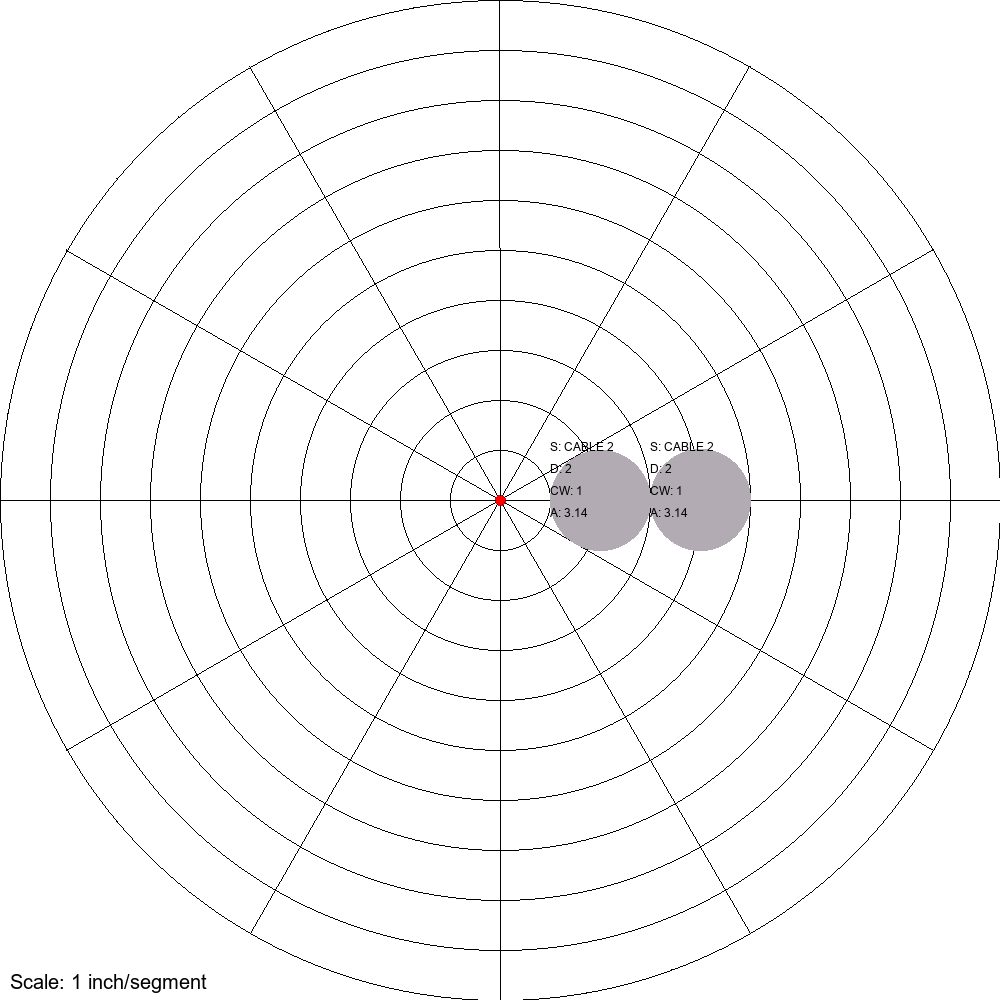
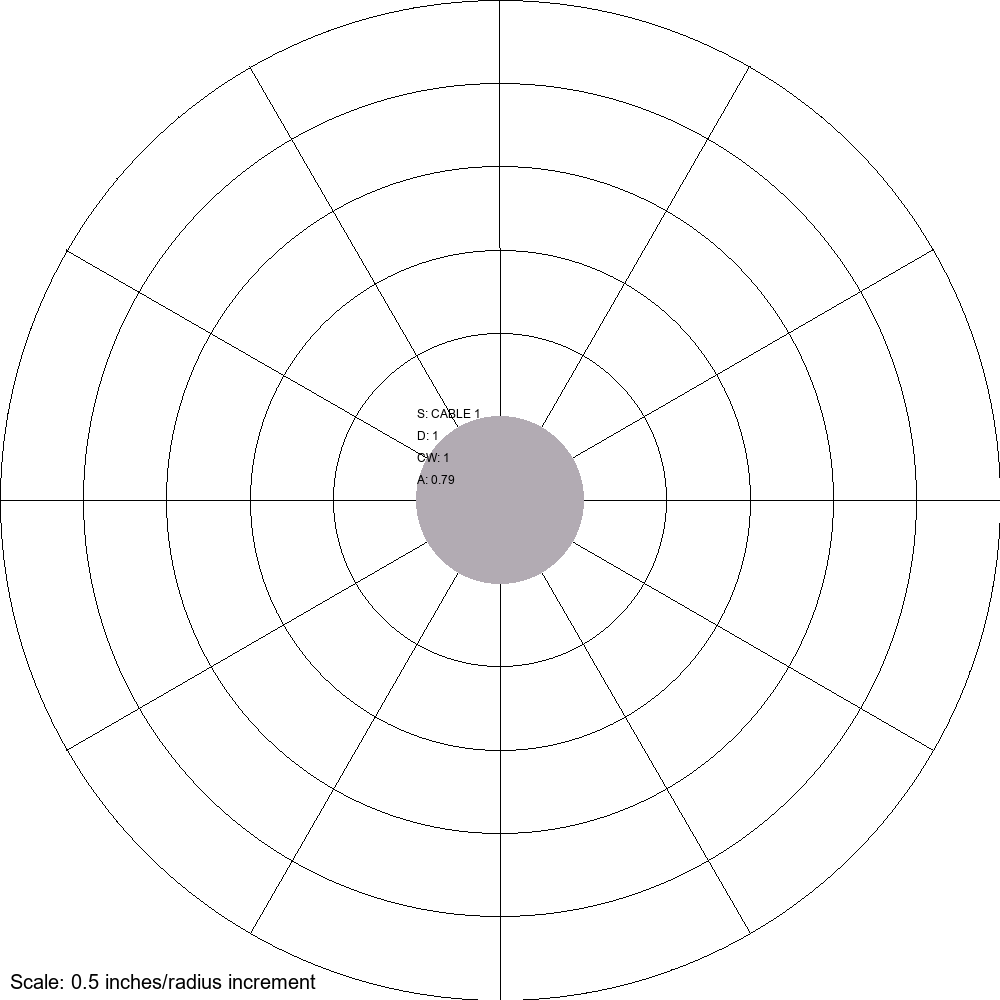
FIXED SCALING
6 INCHES

Changed region(s): [[0.403, 0.403, 0.775, 0.589], [0.062, 0.961, 0.31, 0.992]]

diff --git a/main.py b/main.py
@@ -11,10 +11,11 @@ sort_stationing()      # List each stationing value in the pull sheet
 stationing_sections()  # List cables between each section of stationing
 
 cable_list.append(Cable('1.162', '500+00', '600+00', 'CABLE 2', 'E'))
-cable_list.append(Cable('1.162', '500+00', '600+00', 'CABLE 2', 'E'))
-# print(cable_list[23].cable_size)
-add_to_draw_queue(cable_list[23], 4, 0)
-add_to_draw_queue(cable_list[24], 2, 0)
+cable_list.append(Cable('1.162', '500+00', '600+00', 'CABLE 1', 'E'))
+print(cable_list[23].cable_size)
+# add_to_draw_queue(cable_list[23], 4, 0)
+add_to_draw_queue(cable_list[24], 0, 0)
+generate_cable_image(draw_queue)
 #
 # print("Distance between the two cables is:")
 # print(abs(draw_queue[0] - draw_queue[1]))
@@ -24,37 +25,37 @@ add_to_draw_queue(cable_list[24], 2, 0)
 # print(draw_queue[0][3].diameter + draw_queue[1][3].diameter)
 
 # Accessing the radius from the first tuple in draw_queue
-location_1 = draw_queue[0][0]
+# location_1 = draw_queue[0][0]
+#
+# # Accessing the radius from the second tuple in draw_queue
+# location_2 = draw_queue[1][0]
+#
+# # Performing math with the radius values
+# cables_distance = abs(location_1 - location_2)
+# print("Distance between the centers of the cables:", cables_distance)
+#
+# # Accessing the radius from the first tuple's CableParameters object in draw_queue
+# radius_1 = (draw_queue[0][3].diameter)/2
+#
+# # Accessing the radius from the second tuple's CableParameters object in draw_queue
+# radius_2 = (draw_queue[1][3].diameter)/2
+#
+# # Performing math with the radius values
+# sum_of_radii = radius_1 + radius_2
+# print("Sum of the radii:", sum_of_radii)
+#
+# if cables_distance >= sum_of_radii:
+#     print("Cables are not overlapping")
+# else:
+#     print("Cables are overlapping")
+#
+# generate_cable_image(draw_queue)
 
-# Accessing the radius from the second tuple in draw_queue
-location_2 = draw_queue[1][0]
 
-# Performing math with the radius values
-cables_distance = abs(location_1 - location_2)
-print("Distance between the centers of the cables:", cables_distance)
-
-# Accessing the radius from the first tuple's CableParameters object in draw_queue
-radius_1 = (draw_queue[0][3].diameter)/2
-
-# Accessing the radius from the second tuple's CableParameters object in draw_queue
-radius_2 = (draw_queue[1][3].diameter)/2
-
-# Performing math with the radius values
-sum_of_radii = radius_1 + radius_2
-print("Sum of the radii:", sum_of_radii)
-
-if cables_distance > sum_of_radii:
-    print("Cables are not overlapping")
-else:
-    print("Cables are overlapping")
-
-generate_cable_image(draw_queue)
-
-
-
-# for i in range(random.randint(1, 22)):
+#
+# for i in range(random.randint(15, 22)):
 #     print(cable_list[i].cable_size)
-#     add_to_draw_queue(cable_list[i], random.randint(0, 10), random.randint(0, 360))
+#     add_to_draw_queue(cable_list[i], random.randint(0, 9), random.randint(0, 360))
 # generate_cable_image(draw_queue)
 
 

diff --git a/visualizer.py b/visualizer.py
@@ -11,7 +11,7 @@ dpi = (1000, 1000)  # Higher DPI (dots per inch)
 
 def draw_cable(draw, radius, angle_deg, cable, cable_info, polar_center):
     radius = radius * 50
-    scaling_factor = 50  # Increase the scaling factor
+    scaling_factor = 166.6667  # Increase the scaling factor
     offset_radius = 20  # Offset in the radial direction
     offset_angle_deg = 0  # No angle offset
     text_margin = 10  # Decreased margin
@@ -98,7 +98,7 @@ def generate_cable_image(draw_queue):
         draw.line([line_start, line_end], fill="black", width=1)
 
     # Draw grid lines
-    num_grid_lines = 10  # Adjust the number of grid lines
+    num_grid_lines = 6  # Adjust the number of grid lines
     radius_spacing = polar_graph_radius / num_grid_lines  # Calculate the spacing between grid lines
     for i in range(num_grid_lines):
         radius = (i + 1) * radius_spacing
@@ -130,7 +130,7 @@ def generate_cable_image(draw_queue):
         draw_cable(draw, radius, angle_deg, cable, cable_info, polar_graph_center)
 
     # Write "Scale: " text at the bottom left of the image
-    scale_text = "Scale: 1 inch/segment"
+    scale_text = "Scale: 0.5 inches/radius increment"
     text_color = "black"
     font_size = 20
     font = ImageFont.truetype("arial.ttf", font_size)
@@ -141,20 +141,6 @@ def generate_cable_image(draw_queue):
     # Save the image to a file or display it
     image.save("cable_image.png", dpi=dpi)  # Higher resolution
     image.show()
-
-
-# Get the cable sizes
-# get_cable_sizes()
-
-# cable_list = [
-#     Cable('1.160', '500+00', '600+00', '7C#14', 'E'),
-#     Cable('1.161', '500+00', '600+00', '19C#14', 'E'),
-#     Cable('1.161', '500+00', '600+00', '19C#14', 'E'),
-#     Cable('1.161', '500+00', '600+00', '19C#14', 'E'),
-#     Cable('1.161', '500+00', '600+00', '19C#14', 'E'),
-#     Cable('1.162', '500+00', '600+00', 'SCALE CABLE', 'E'),
-#     Cable('1.163', '500+00', '600+00', 'SCALE CABLE 2', 'E')
-# ]
 
 
 def add_to_draw_queue(cable, radius, angle_deg):

diff --git a/messenger_algorithm.py b/messenger_algorithm.py
@@ -43,3 +43,16 @@ def stationing_sections():
             ):
                 print("-" + cable.pull_number)
         print()
+
+
+def check_bundle_weight(cable):
+    pass
+
+# Check if next cable placement will overlap with currently placed cables
+def check_for_overlap(cable, radius, angle):
+    overlap = False
+
+    if not overlap:
+        add_to_draw_queue(cable, radius, angle)
+    else:
+        return 1

diff --git a/cable_classes.py b/cable_classes.py
@@ -26,3 +26,6 @@ stationing_values = set()
 
 # List to hold cables to be drawn with their polar coordinates (radius and angle)
 draw_queue = []
+
+# Value to hold current bundle weight, max bundle weight to be set by user (typically ~20 lb/foot)
+global bundle_weight
